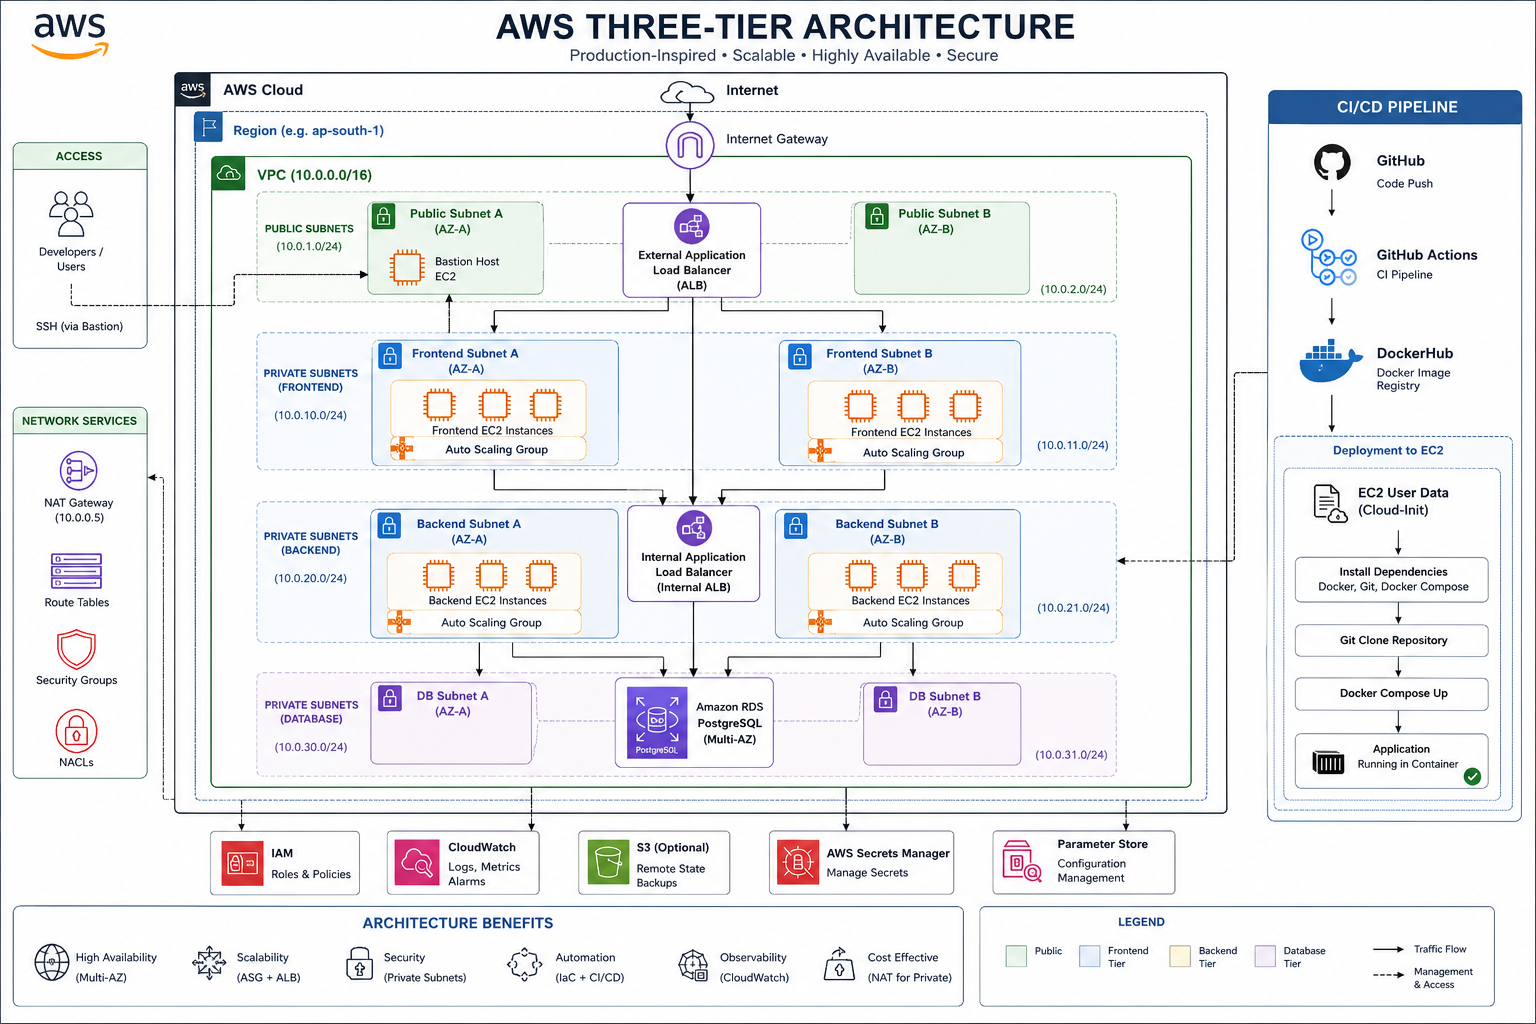
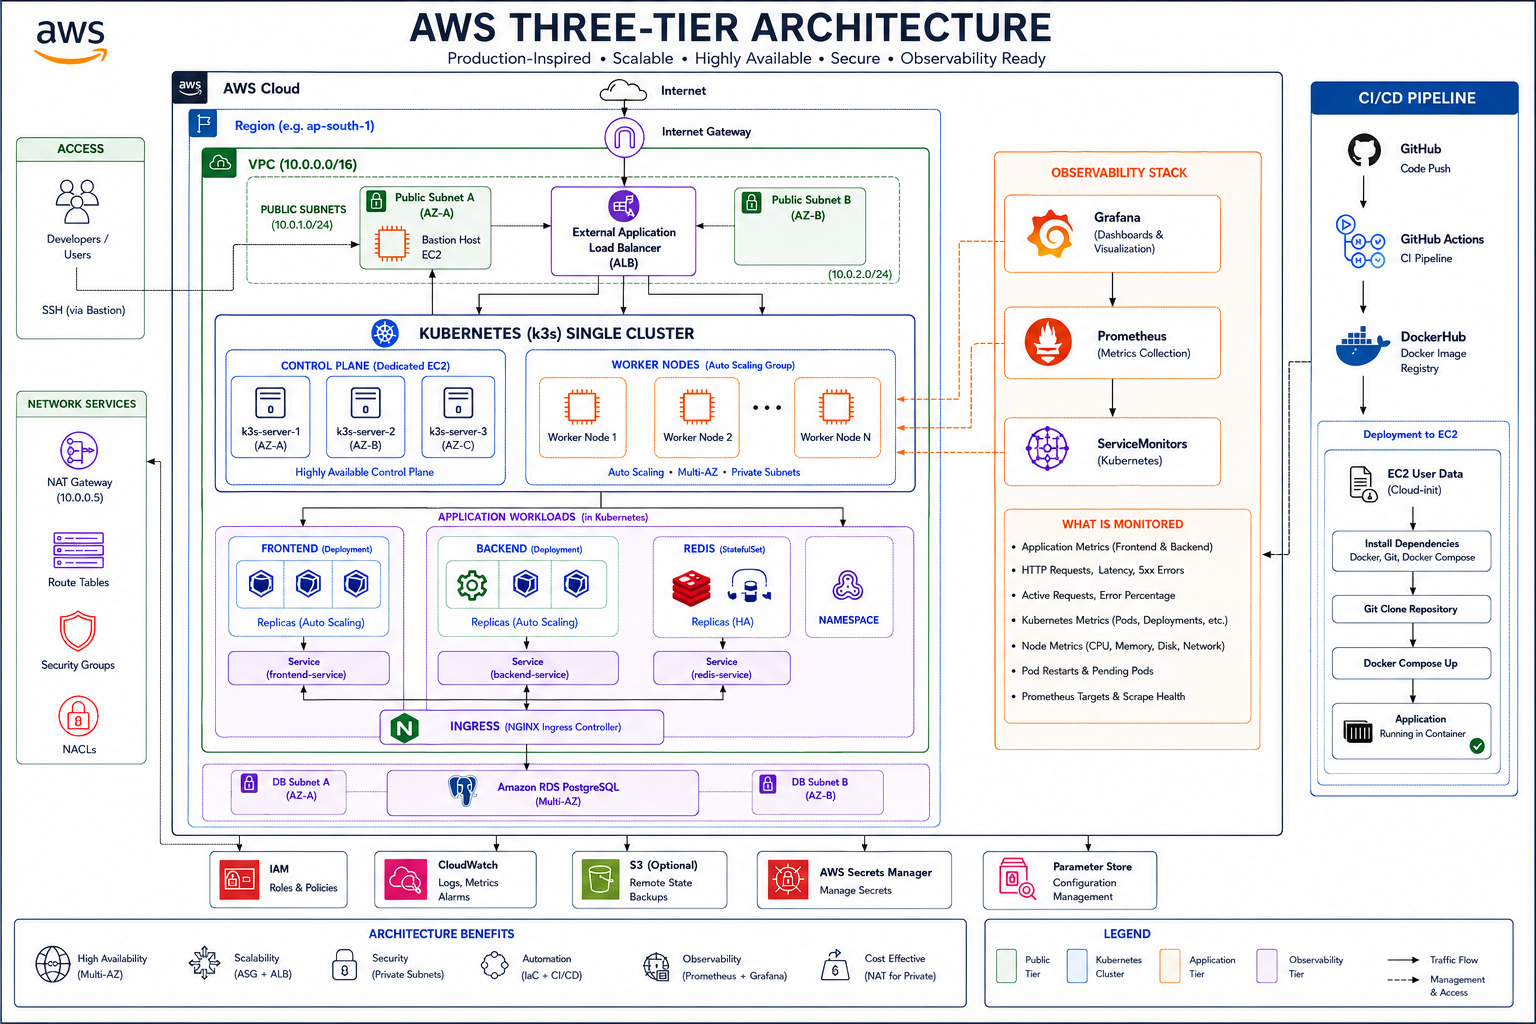
Updated architecture image

Changed region(s): [[0.0, 0.0, 1.0, 1.0], [0.0, 0.0, 0.0938, 0.0625], [0.9688, 0.0, 1.0, 0.0312]]

diff --git a/README.md b/README.md
@@ -9,8 +9,8 @@
 ![Python](https://img.shields.io/badge/Python-3776AB?style=for-the-badge&logo=python)
 ![GitHub Actions](https://img.shields.io/badge/GitHub_Actions-2088FF?style=for-the-badge&logo=github-actions)
 ![License](https://img.shields.io/badge/License-MIT-success?style=for-the-badge)
-![Prometheus](https://shields.io)
-![Grafana](https://shields.io)
+![Prometheus](https://img.shields.io/badge/Prometheus-E6522C?style=for-the-badge&logo=prometheus&logoColor=white)
+![Grafana](https://img.shields.io/badge/Grafana-F46800?style=for-the-badge&logo=grafana&logoColor=white)
 
 Production-inspired AWS Infrastructure demonstrating Infrastructure as Code, CI/CD, Docker image automation, Kubernetes deployments and scalable cloud architecture.
 
@@ -411,12 +411,6 @@ aws-three-tier-architecture/
 - Cluster Autoscaler
 - Distributed Tracing
 - OpenTelemetry
-
----
-
-## Architecture
-
----
 
 ## 🤝 Acknowledgements
 
